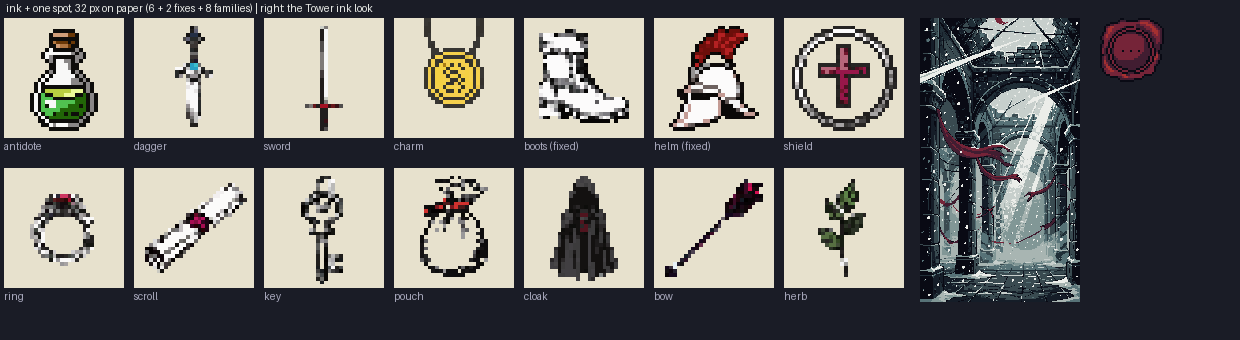
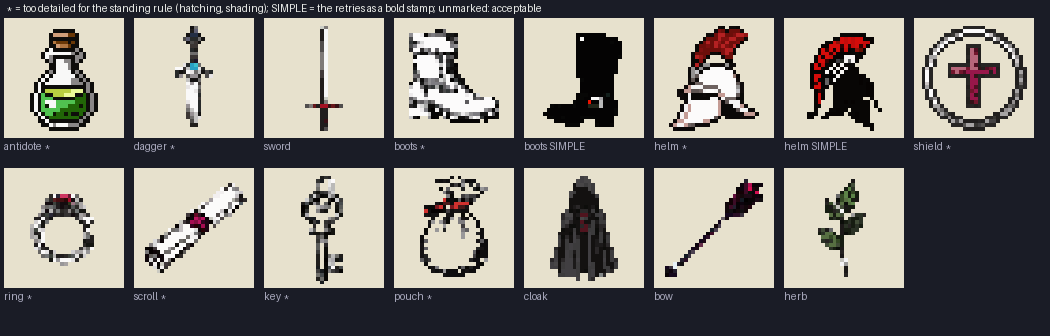
Art: standing rule (no detail) in the docs, simple boots and helm (2 gens)
Claude-Session: https://claude.ai/code/session_019ETFw1Uj2cByEfEuTF2CxM

diff --git a/docs/art/cutpaper-wave3.md b/docs/art/cutpaper-wave3.md
@@ -21,3 +21,6 @@ Note (the Manager's message reached me after this batch): I had redone all six i
 
 ## Icons, ink + one spot, 32 px, second test (25 November): 10 generations, balance 1625
 Boots and helm fixed (`ink_boots32.png`: a paper-white boot with a small red buckle; `ink_helm32.png`: a paper helm with a deep red plume) and 8 new families (`ink_{shield,ring,scroll,key,pouch,cloak,bow,herb}32.png`), in `art/pixellab-cutpaper/hi/final/`. Sheet `docs/art/boards/icons-ink-spot-test2.png` (the first 4 of the earlier six, the two fixes and the 8, on paper, with the Tower's ink look beside). They read as ink drawings with one spot (a red cross on the shield, a red gem on the ring, a red seal on the scroll, a green herb). Misses: the bow came out as an arrow only, the cloak is a dark mass with a small red clasp, the coin charm is still the earlier yellow one.
+
+## The standing rule applied to the icon test (25 November; 2 retries, balance 1623)
+The rule (no hatching, no shading, bold silhouettes, lots of paper, one spot) is at the top of `docs/art/style-brut.md` and of `docs/art/cut-paper-rollout-plan.md`. My icon prompts had asked for hatching, so the test icons that show it are marked `*` on `docs/art/boards/icons-ink-spot-test2.png` as too detailed: antidote, dagger, boots, helm, shield, ring, scroll, key, pouch. Acceptable as they are: the sword, the cloak, the bow (an arrow only), the herb. The two retries of the icon max (12 in all) redid the boots and the helm as bold stamps: `ink_boots32_simple.png` (a solid black boot with a small red buckle) and `ink_helm32_simple.png` (a black helmet with a red plume): these two are the right look; the rest of a full set would use the prompt "a bold simple black ink silhouette like a stamp or a woodcut, a few strong ink strokes, no hatching, no shading, lots of empty paper white, exactly one small spot of colour".

diff --git a/docs/art/cut-paper-rollout-plan.md b/docs/art/cut-paper-rollout-plan.md
@@ -1,3 +1,5 @@
+> **Standing rule for everything Art draws (the user, 25 November):** "the art should not have too many details, like the backgrounds, but more an arty direction". Bold simple silhouettes, a few strong ink strokes, **no hatching, no shading ramps, no small texture**, lots of empty paper, one spot of colour, a recognisable shape at a glance: think a stamp or a woodcut, not a small illustration. Prompts must say "bold simple silhouette, no hatching, no shading" and must not ask for hatching.
+
 # Cut paper: how to extend it (plan, nothing generated; Art, 25 November 2026)
 
 The user approved cut paper as the direction (the second try: ink, paper, a paper shadow, one clan colour). What worked in the second try: **text-only prompts for flat subjects** (the fire, the dice) and a **very light init (strength about 80)** when an emblem must survive (the banner). Costs are in generations: one per piece, plus about 30 % for retries. Balance 1751. Rule: ask the user before any batch above about 30.

diff --git a/docs/art/style-brut.md b/docs/art/style-brut.md
@@ -1,3 +1,5 @@
+> **Standing rule for everything Art draws (the user, 25 November):** "the art should not have too many details, like the backgrounds, but more an arty direction". Bold simple silhouettes, a few strong ink strokes, **no hatching, no shading ramps, no small texture**, lots of empty paper, one spot of colour, a recognisable shape at a glance: think a stamp or a woodcut, not a small illustration. Prompts must say "bold simple silhouette, no hatching, no shading" and must not ask for hatching.
+
 # Style exploration "brut" (24 November 2026; 0 generations; waits for the user's pick)
 
 The user: "too much detail; something less detailed, more raw (brut), playing with shadows, with a unique colour for each clan. Globally the art should not be too complex, but have a style of its own."
